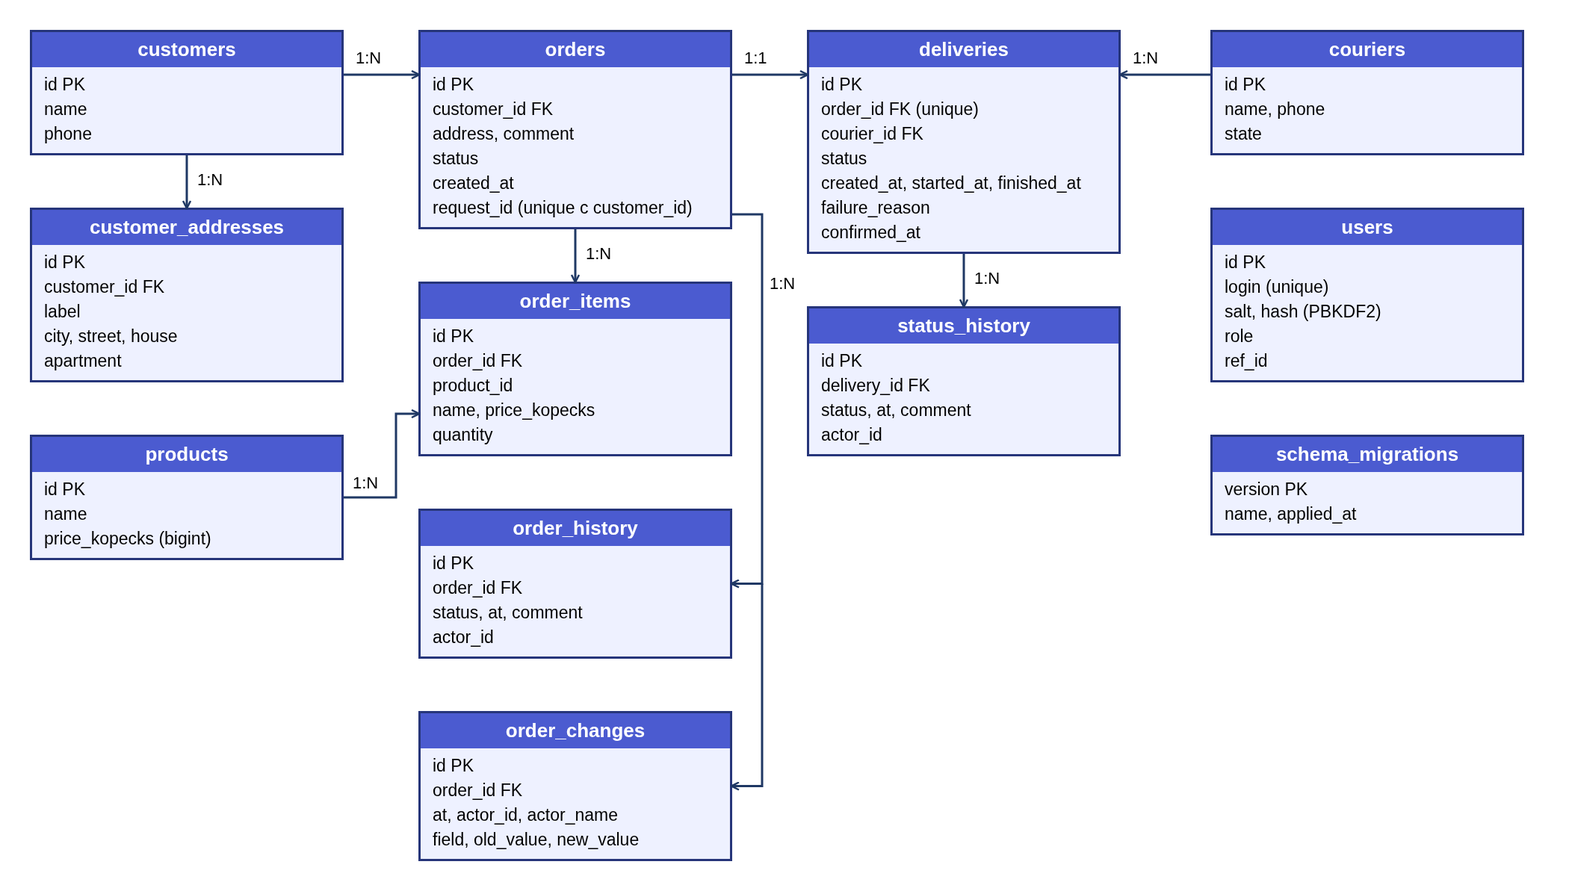
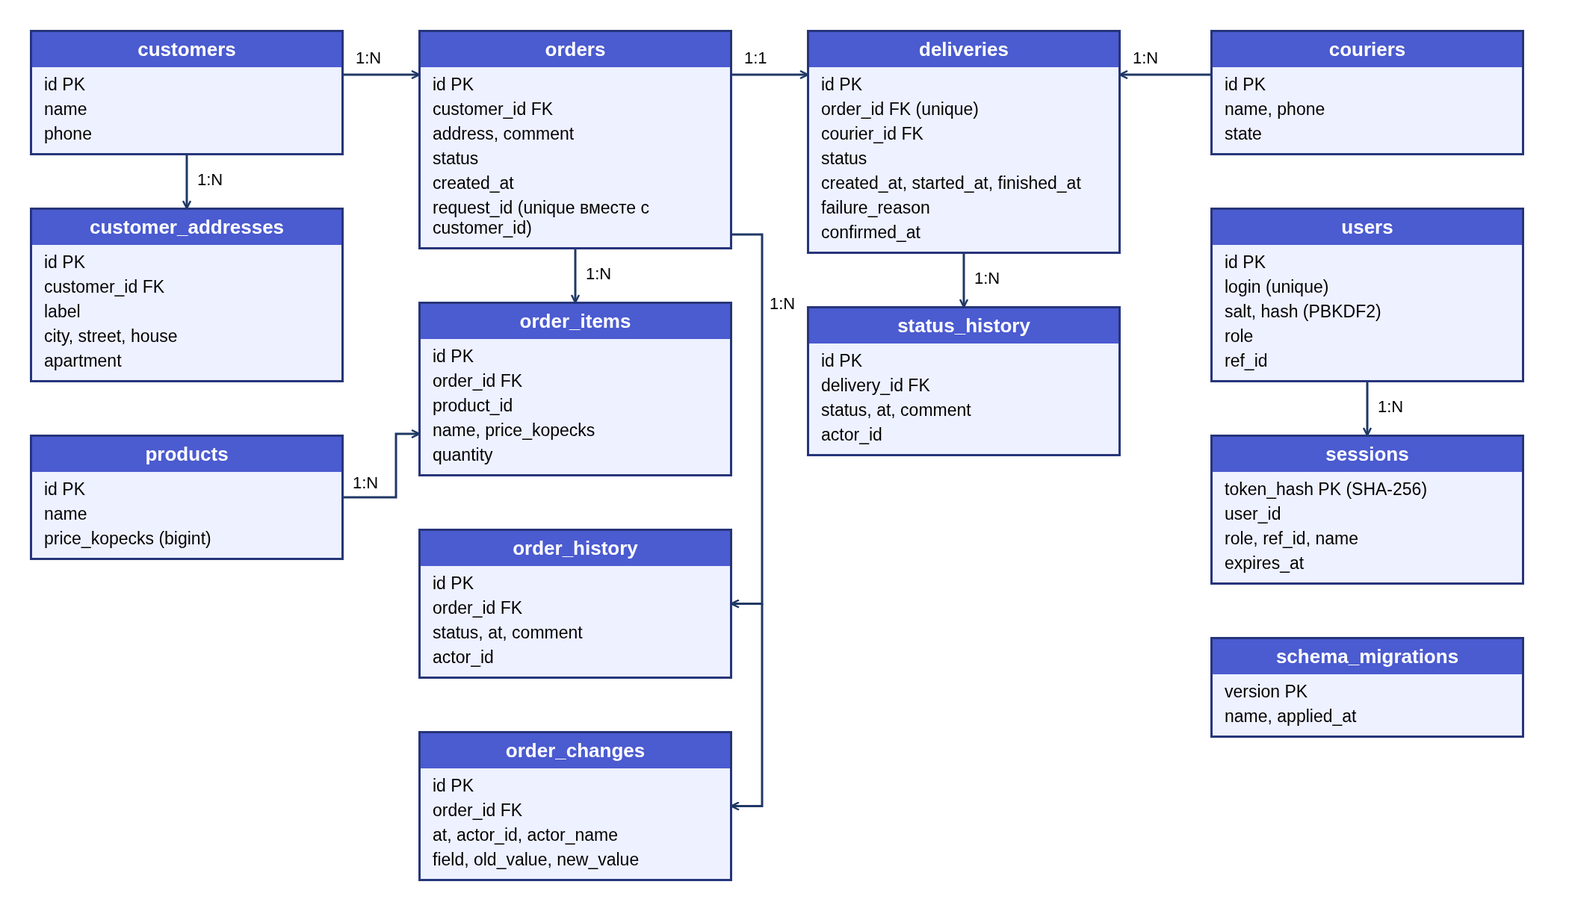
docs: обновить документацию и схему БД под версию 2.1.0
Убран раздел «Известные ограничения», добавлены боевой запуск, эндпоинты password/retry, таблица sessions, CHANGELOG 2.1.0.

diff --git a/README.md b/README.md
@@ -20,9 +20,9 @@
 | Оператор | `operator` / `operator` | видит все заказы, назначает курьера (вручную или автоматически), меняет статусы, ведёт справочники. Заказы **не создаёт** |
 | Курьер | `alexey`, `dmitry`, `olga` (пароль = логин) | свой маршрутный лист, статусы «принял / в пути / доставил / не удалось» (с причиной), переключатель онлайн/офлайн |
 
-- Заказ и доставка имеют **раздельные статусы**. Доставка: `Created → Assigned → Accepted → InTransit → Delivered`, а также `Failed` (обязательна причина) и `Cancelled`. Заказ: `Created, Confirmed, Preparing, InDelivery, Delivered, Cancelled, DeliveryFailed` — выводится из статуса доставки: `Failed → DeliveryFailed` (доставка не удалась), `Cancelled → Cancelled` (заказ отменён). Подробнее — [ADR-006](docs/decisions/ADR-006-order-and-delivery-statuses.md).
+- Заказ и доставка имеют **раздельные статусы**. Доставка: `Created → Assigned → Accepted → InTransit → Delivered`, а также `Failed` (обязательна причина) и `Cancelled`. Неудачную доставку оператор может повторить (`retry`): она возвращается в `Created`, предыдущая попытка остаётся в истории. Заказ: `Created, Confirmed, Preparing, InDelivery, Delivered, Cancelled, DeliveryFailed` — выводится из статуса доставки: `Failed → DeliveryFailed` (доставка не удалась), `Cancelled → Cancelled` (заказ отменён). Подробнее — [ADR-006](docs/decisions/ADR-006-order-and-delivery-statuses.md).
 - Состояния курьера: `Available, Busy, Offline, Blocked`. Занятого, офлайн и заблокированного назначить нельзя; после финального статуса курьер освобождается.
-- `POST /api/orders` создаёт заказ + доставку и сразу подбирает свободного курьера. Если свободных нет — доставка остаётся `Created`, оператор назначит позже.
+- `POST /api/orders` создаёт заказ + доставку и сразу подбирает свободного курьера с наименьшим числом доставок за последние 24 часа (при равенстве — по имени). Если свободных нет — доставка остаётся `Created`, оператор назначит позже.
 - Фиксируются время начала и завершения доставки, история статусов доставки и заказа (с автором действия) и журнал изменений заказа: состав, адрес, комментарий (было → стало, кто и когда).
 - Создание заказа атомарно; сбой автоназначения не отменяет заказ. Необязательный `requestId` в `POST /api/orders` делает повтор запроса идемпотентным.
 - Деньги хранятся в копейках, наружу отдаются в рублях (`decimal`).
@@ -36,17 +36,17 @@
 - `src/ApiHost` — ASP.NET Core 9 minimal API, хранилище на PostgreSQL (`Store.cs`), миграции схемы (`Db/`), авторизация (`Auth.cs`).
 - `src/Contracts` — DTO и перечисления; `OrderModule`, `DeliveryModule`, `CourierModule`, `CustomerModule` — бизнес-правила каждого модуля (`*Rules.cs`), общение через контракты.
 - `tools/SqliteImport` — разовый перенос данных из старой версии (SQLite) в PostgreSQL.
-- `tests/` — 150 тестов (правила модулей, сценарии, миграции, HTTP-API и роли на реальном PostgreSQL).
+- `tests/` — 171 тест (правила модулей, сценарии, миграции, HTTP-API и роли на реальном PostgreSQL).
 - `docs/` — этапы курсового, ADR, архитектура, тесты.
 
 ![Архитектура](docs/img/architecture.png)
 
 ## База данных
-PostgreSQL 16. Строка подключения — `ConnectionStrings:Default` (по умолчанию `Host=localhost;Port=5432;Database=delivery;Username=delivery;Password=delivery`; в Docker — переменная `ConnectionStrings__Default`). Схема создаётся и обновляется **версионированными миграциями** при старте (`src/ApiHost/Db/Migrations.cs`, учёт — таблица `schema_migrations`). Каждая миграция выполняется в транзакции; таблицы и данные автоматически не удаляются. Если схема неизвестна, создана более новой версией или миграция упала, приложение не стартует и пишет причину. На пустой базе добавляются демо-данные. В Docker данные лежат в volume `pgdata`.
+PostgreSQL 16. Строка подключения — `ConnectionStrings:Default` (по умолчанию `Host=localhost;Port=5432;Database=delivery;Username=delivery;Password=delivery`; в Docker — переменная `ConnectionStrings__Default`). Схема создаётся и обновляется **версионированными миграциями** при старте (`src/ApiHost/Db/Migrations.cs`, учёт — таблица `schema_migrations`). Каждая миграция выполняется в транзакции; таблицы и данные автоматически не удаляются. Если схема неизвестна, создана более новой версией или миграция упала, приложение не стартует и пишет причину. На пустой базе по умолчанию добавляются демо-данные (см. «Боевой запуск»). В Docker данные лежат в volume `pgdata`.
 
 ![Схема БД (PostgreSQL)](docs/img/db-schema.png)
 
-Текстовое описание схемы — в [docs/architecture.md](docs/architecture.md#схема-бд-миграции-00010003). Основные таблицы: `customers`, `customer_addresses`, `couriers`, `users` (пароли PBKDF2), `products` (`price_kopecks`), `orders`, `order_items`, `deliveries`, `status_history`, `order_history`, `order_changes`.
+Текстовое описание схемы — в [docs/architecture.md](docs/architecture.md#схема-бд-миграции-00010004). Основные таблицы: `customers`, `customer_addresses`, `couriers`, `users` (пароли PBKDF2), `products` (`price_kopecks`), `orders`, `order_items`, `deliveries`, `status_history`, `order_history`, `order_changes`, `sessions`, `schema_migrations`.
 
 ### Обновление со старой версии (SQLite)
 См. [docs/architecture.md](docs/architecture.md#обновление-существующей-установки): запустить PostgreSQL, затем
@@ -72,6 +72,9 @@ dotnet run --project tools/SqliteImport -- data/delivery.db "Host=localhost;Port
 docker compose up --build
 ```
 Поднимает PostgreSQL (`db`) и API (`app`) на http://localhost:8080. Пароль БД можно задать переменной `POSTGRES_PASSWORD`.
+
+### Боевой запуск (без демо-данных)
+Демо-аккаунты имеют предсказуемые пароли (`пароль = логин`), поэтому для рабочей установки их отключают: `Seed:Demo=false` (переменная `Seed__Demo=false`) и пароль первого оператора `Seed:OperatorPassword` (переменная `Seed__OperatorPassword`, не короче 8 символов). На пустой базе создаётся только пользователь `operator` с этим паролем, без клиентов, курьеров и товаров; если пароль не задан, сервер не стартует. В Docker: `SEED_DEMO=false OPERATOR_PASSWORD=... docker compose up -d`. Любой пользователь может сменить пароль через `POST /api/auth/password`.
 
 ### Локально
 Требуется [.NET 9 SDK](https://dotnet.microsoft.com/download/dotnet/9.0) и PostgreSQL (проще всего `docker compose up -d db`).
@@ -129,7 +132,8 @@ dotnet test OrderDeliveryManagementSystem.sln
 
 | Метод | Endpoint | Что делает |
 |---|---|---|
-| POST | `/api/auth/login`, `/api/auth/logout` | вход / выход |
+| POST | `/api/auth/login`, `/api/auth/logout` | вход / выход (сессии хранятся в PostgreSQL и переживают перезапуск, 12 часов) |
+| POST | `/api/auth/password` | смена своего пароля (`oldPassword`, `newPassword` ≥ 8 символов); остальные сессии пользователя завершаются |
 | GET | `/api/auth/me`, `/api/state` | текущий пользователь; данные для UI (фильтруются по роли) |
 | GET | `/api/health` | проверка живости |
 | POST | `/api/orders` | создать заказ (+ доставка, автоназначение); необязательный `requestId` — идемпотентность |
@@ -141,6 +145,7 @@ dotnet test OrderDeliveryManagementSystem.sln
 | POST | `/api/deliveries/{id}/assign` | назначить курьера (пустой `courierId` — авто) |
 | PATCH | `/api/deliveries/{id}/status` | сменить статус (`Failed` требует `reason`) |
 | POST | `/api/deliveries/{id}/confirm` | клиент подтверждает получение |
+| POST | `/api/deliveries/{id}/retry` | оператор: повторить неудачную доставку (`Failed` → `Created`, курьер подбирается заново, история сохраняется) |
 | GET/POST/PUT/DELETE | `/api/customers`, `/api/couriers`, `/api/products` | справочники |
 | GET/POST | `/api/customers/{id}/addresses` | адреса клиента |
 | GET/PUT/DELETE | `/api/addresses/{id}` | адрес |
@@ -153,11 +158,4 @@ dotnet test OrderDeliveryManagementSystem.sln
 Ошибки сервера (`STORAGE_ERROR`, `INTERNAL_ERROR`) и некорректный JSON (`INVALID_REQUEST`) тоже приходят в едином формате ошибок.
 
 ## Версии и история изменений
-Версия — `Directory.Build.props` (сейчас 2.0.0, семантическое версионирование), список изменений — [CHANGELOG.md](CHANGELOG.md). Сообщения коммитов — [Conventional Commits](https://www.conventionalcommits.org/ru/v1.0.0/) (`feat`, `fix`, `refactor`, `test`, `docs`, `build`, `chore`).
-
-## Известные ограничения
-- Сессии хранятся в памяти (после перезапуска сервера нужен повторный вход).
-- Демо-пароли равны логинам — для боевого использования их нужно сменить.
-- Автоподбор курьера выбирает первого свободного по имени (без балансировки нагрузки).
-- После `Failed` доставку нельзя повторить в рамках того же заказа (ТЗ этого не предусматривает).
-- WPF-клиент собирается и запускается только под Windows; в CI он собирается с `EnableWindowsTargeting`, ручная проверка интерфейса не автоматизирована.
+Версия — `Directory.Build.props` (сейчас 2.1.0, семантическое версионирование), список изменений — [CHANGELOG.md](CHANGELOG.md). Сообщения коммитов — [Conventional Commits](https://www.conventionalcommits.org/ru/v1.0.0/) (`feat`, `fix`, `refactor`, `test`, `docs`, `build`, `chore`).

diff --git a/docs/testing.md b/docs/testing.md
@@ -48,7 +48,7 @@ Created -> Assigned -> Accepted -> InTransit -> Delivered
 
 ## Фактическое состояние
 
-150 автоматических тестов (41 модульный + 109 интеграционных; `dotnet test OrderDeliveryManagementSystem.sln`, все проходят). Интеграционные тесты работают на **реальном PostgreSQL**: каждый тест создаёт и удаляет собственную базу.
+171 автоматический тест (41 модульный + 130 интеграционных; `dotnet test OrderDeliveryManagementSystem.sln`, все проходят). Интеграционные тесты работают на **реальном PostgreSQL**: каждый тест создаёт и удаляет собственную базу.
 
 Подключение к серверу — переменная `TEST_PG_ADMIN` (строка подключения с правом `CREATE DATABASE`); по умолчанию `Host=localhost;Port=5432;Username=postgres;Password=postgres;Database=postgres`. Быстрый старт: `docker run -d -p 5432:5432 -e POSTGRES_PASSWORD=postgres postgres:16`. В CI — service-контейнер (`.github/workflows/ci.yml`).
 

diff --git a/docs/architecture.md b/docs/architecture.md
@@ -31,7 +31,7 @@
 - **Деньги** — целые копейки (`bigint`), наружу рубли (`decimal`).
 - **Статусы:** заказ выводится из доставки; `Failed → DeliveryFailed`, `Cancelled → Cancelled`.
 
-### Схема БД (миграции 0001–0003)
+### Схема БД (миграции 0001–0004)
 
 ```text
 customers(id, name, phone)                      customer_addresses(id, customer_id, label, city, street, house, apartment)
@@ -41,10 +41,11 @@ order_items(id, order_id, product_id, name, price_kopecks, quantity)
 deliveries(id, order_id, courier_id, status, created_at, started_at, finished_at, failure_reason, confirmed_at)
 status_history(id, delivery_id, status, at, comment, actor_id)   order_history(id, order_id, status, at, comment, actor_id)
 order_changes(id, order_id, at, actor_id, actor_name, field, old_value, new_value)
+sessions(token_hash, user_id, role, ref_id, name, expires_at)
 schema_migrations(version, name, applied_at)
 ```
 
-Диаграмма схемы (PostgreSQL, миграции 0001–0003):
+Диаграмма схемы (PostgreSQL, миграции 0001–0004):
 
 ![Схема БД](img/db-schema.png)
 

diff --git a/CHANGELOG.md b/CHANGELOG.md
@@ -3,6 +3,17 @@
 Формат: [Keep a Changelog](https://keepachangelog.com/ru/1.1.0/), версии: [SemVer](https://semver.org/lang/ru/).
 Сообщения коммитов: [Conventional Commits](https://www.conventionalcommits.org/ru/v1.0.0/).
 
+## [2.1.0]
+
+### Добавлено
+- Сессии хранятся в PostgreSQL (в виде SHA-256 токена) и переживают перезапуск сервера (миграция 0004).
+- `POST /api/auth/password` — смена пароля; остальные сессии пользователя завершаются.
+- Боевой запуск без демо-аккаунтов: `Seed:Demo=false` + `Seed:OperatorPassword`.
+- `POST /api/deliveries/{id}/retry` и кнопка «Повторить доставку» в WPF: неудачную доставку можно повторить, история сохраняется.
+
+### Изменено
+- Автоподбор курьера выбирает наименее загруженного за последние 24 часа (раньше — первого по имени).
+
 ## [2.0.0]
 
 Закрывает issue #1 (замечания аудита).

diff --git a/docs/contracts.md b/docs/contracts.md
@@ -20,6 +20,8 @@
 | GET | `/api/customers/{id}` | Данные клиента |
 | POST | `/api/auth/login` | Вход, возвращает Bearer-токен |
 | POST | `/api/deliveries/{id}/confirm` | Подтверждение получения клиентом |
+| POST | `/api/deliveries/{id}/retry` | Повтор неудачной доставки (только оператор): `Failed` → `Created`, курьер подбирается заново |
+| POST | `/api/auth/password` | Смена пароля (`oldPassword`, `newPassword` ≥ 8 символов) |
 | PUT | `/api/orders/{id}` | Редактирование заказа (Created/Assigned) |
 | PATCH | `/api/couriers/{id}/state` | Состояние курьера |
 | GET/POST/PUT/DELETE | `/api/products`, `/api/customers/{id}/addresses` | Товары и адреса |

diff --git a/docs/tz-traceability.md b/docs/tz-traceability.md
@@ -27,7 +27,7 @@
 | Обновление существующей установки | `tools/SqliteImport` | `SqliteImportTests` |
 | Идемпотентность и устойчивость к сбоям | `requestId`, транзакции, `FOR UPDATE` | `ReliabilityTests`, `PostOrders_WithSameRequestId_IsIdempotent` |
 | Запуск | `docker compose up --build` или `dotnet run` | CI (`.github/workflows/ci.yml`) |
-| Тесты | 150 автоматических тестов | `dotnet test OrderDeliveryManagementSystem.sln` |
+| Тесты | 171 автоматический тест | `dotnet test OrderDeliveryManagementSystem.sln` |
 
 ## Допустимые отклонения от ТЗ
 
